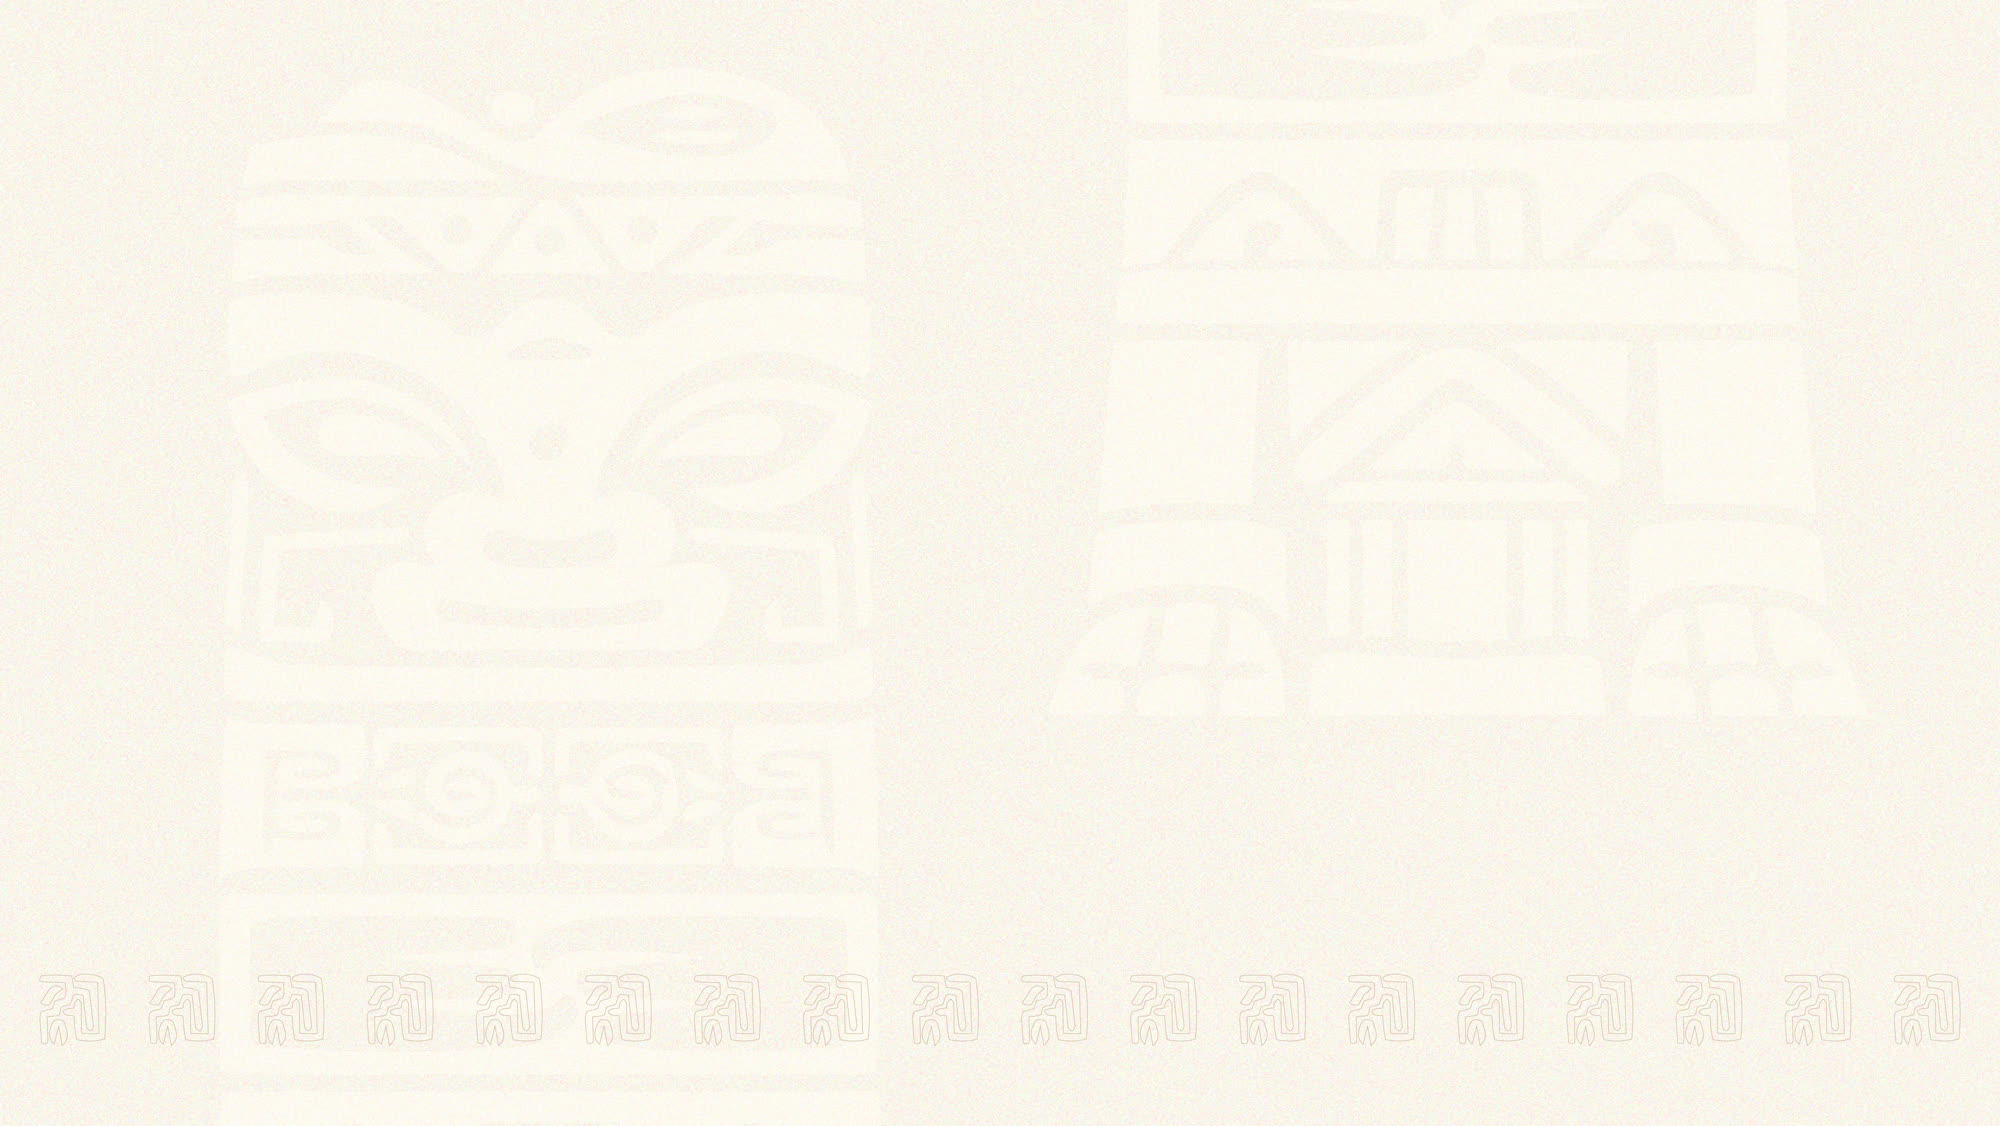
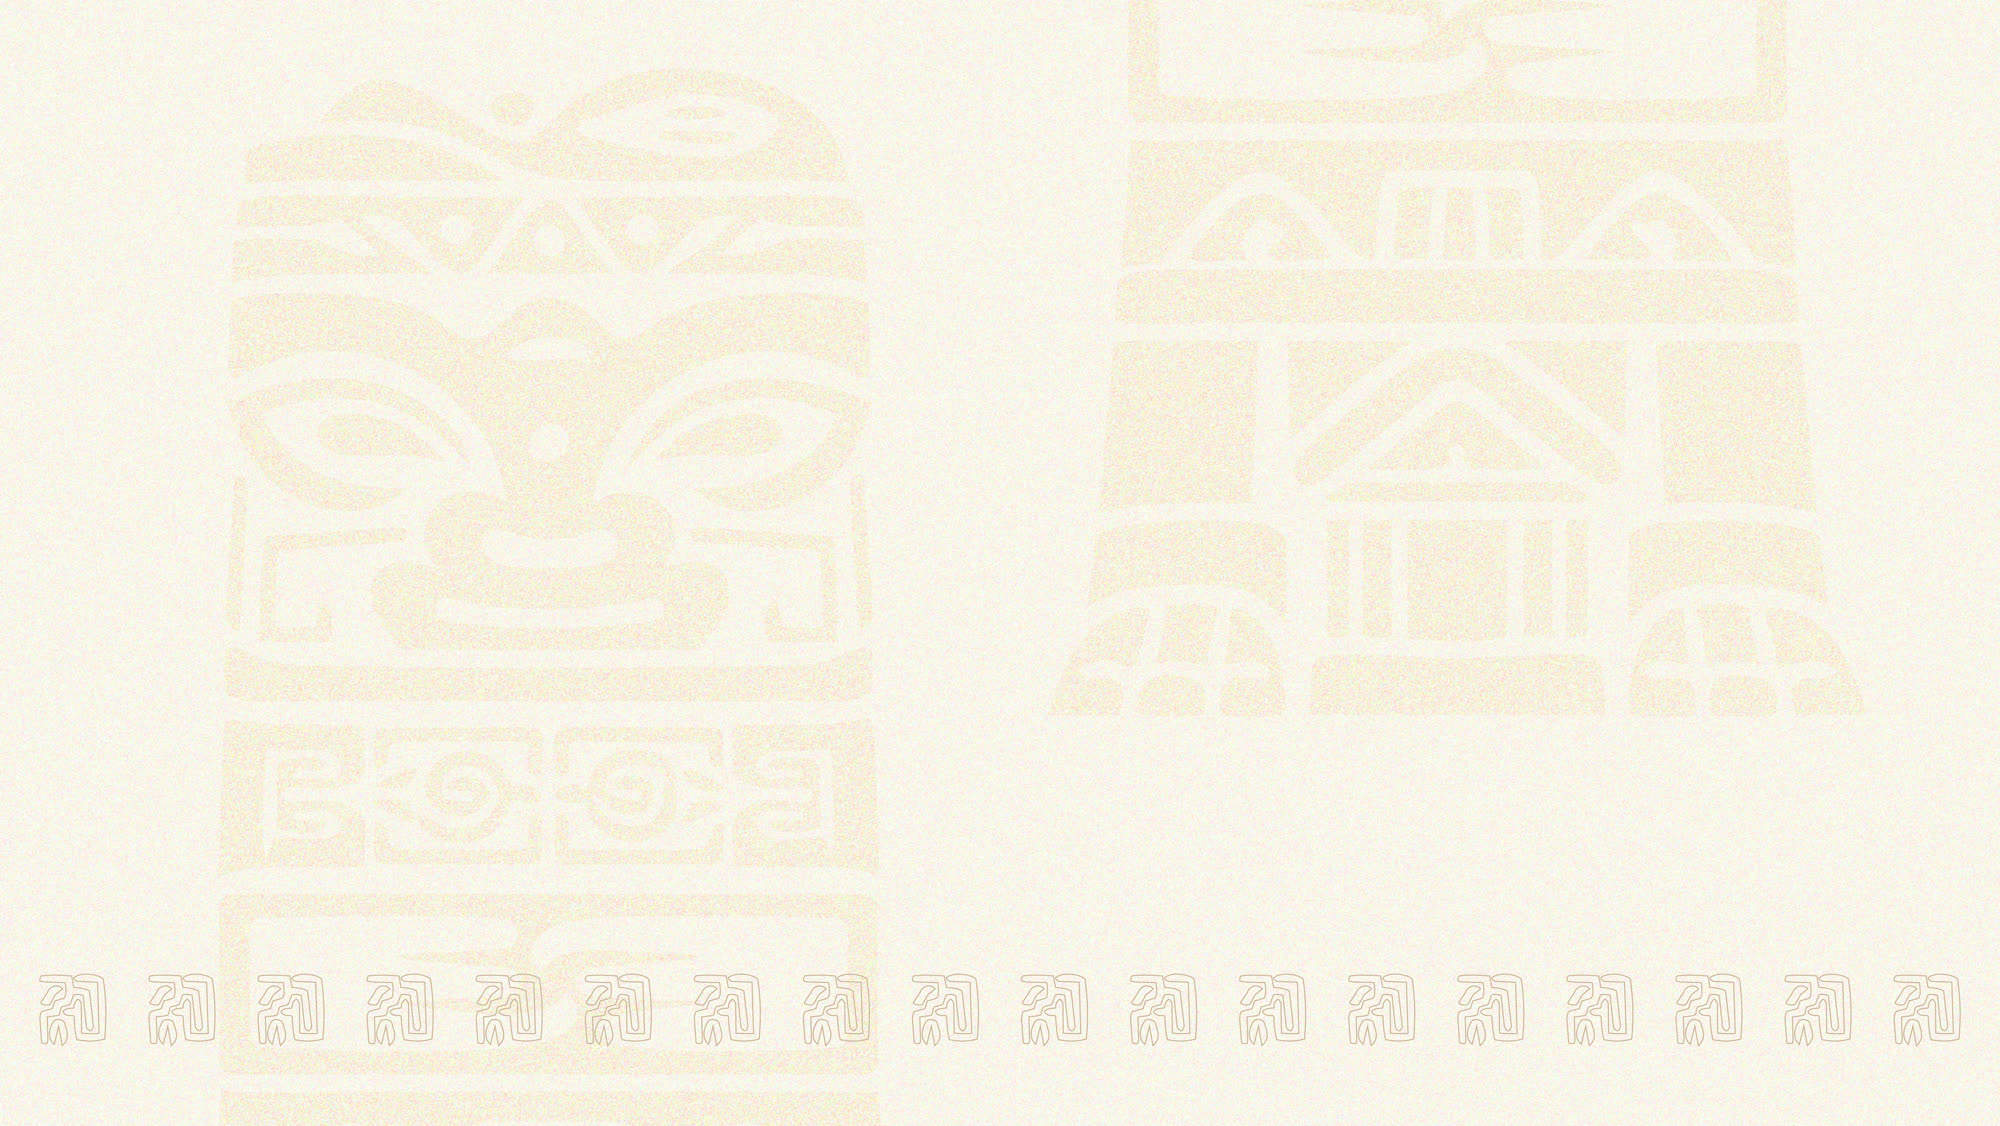
Redesign #services (Strategic Partner) + títulos escalonados + hook auto-versión
- #services: quitado el vídeo. Bloque 'Strategic Partner' con fondo selva (bg-strategic.jpg),
  título THE / STRATEGIC PARTNER (Medium itálica) / FOR TERRITORIAL ASSETS con línea izq,
  3 pills (Territorial Opportunities/Long-term Vision/Financial Discipline) y cifras
  500K+ SQM Land · 30+ Projects · 6+ Years (ref del cliente). All-in-one debajo como banda
  estilo 'The Expedition' (bg-theexpedition), mismo scroll.
- Active Developments: statement con el formato TitleExample (THE / PLACES YOU CHOOSE itálica
  / need to reflect what you value).
- Ecosystem: 'Four ways,' en itálica.
- bg-ecosystem nuevo (png 14MB -> jpg 500K) + legacy.mp4 reoptimizado (37MB->5.1MB); ?v= en sus refs.
- Hook .githooks/pre-commit: auto-incrementa ?v= de lawang-card.{js,css}/portfolio-app.js al commitear.

diff --git a/index.html b/index.html
@@ -895,7 +895,7 @@ document.addEventListener('mousemove', e => { mx=e.clientX; my=e.clientY; cur.st
 .cs-btn-pill { border-radius:40px; }
 
 /* ════ 2 · THE ECOSYSTEM — Divisions (#lines) ════ */
-.lw-divisions { background:linear-gradient(rgba(243,238,228,.25),rgba(243,238,228,.25)), url('assets/img/bg-ecosystem.jpg') center/cover no-repeat; }
+.lw-divisions { background:linear-gradient(rgba(243,238,228,.25),rgba(243,238,228,.25)), url('assets/img/bg-ecosystem.jpg?v=2') center/cover no-repeat; }
 .lw-divisions > .cs-wrap { max-width:1480px; }
 .lw-show-grid { display:grid; grid-template-columns:repeat(4,1fr); gap:clamp(1.9rem,2.8vw,3rem); margin-top:clamp(26px,4vh,48px); }
 .lw-show { position:relative; display:block; overflow:hidden; border-radius:16px; isolation:isolate; text-decoration:none;
@@ -919,7 +919,7 @@ document.addEventListener('mousemove', e => { mx=e.clientX; my=e.clientY; cur.st
   background:linear-gradient(180deg,rgba(20,30,16,.5),rgba(16,24,14,.4) 45%,rgba(14,22,12,.64)); }
 .lw-pf-top > * { position:relative; z-index:1; }
 .lw-pf-top .lw-kicker { color:#E6EDDD; }
-.lw-pf-statement { font-family:var(--csa); font-weight:300; font-size:clamp(26px,3.4vw,46px); line-height:1.14; letter-spacing:-.01em; color:var(--cb); margin:16px 0 0 auto; max-width:24ch; text-align:right; }
+.lw-pf-statement { font-size:clamp(26px,3.4vw,46px); color:var(--cb); margin:16px 0 0 auto; text-align:right; align-items:flex-end; }
 .lw-pf-title2 { font-family:var(--csa); text-transform:uppercase; font-weight:400; font-size:clamp(22px,3vw,42px); line-height:1.05; letter-spacing:.005em; color:var(--ci); margin:clamp(30px,4.5vh,56px) 0 0; }
 @media(min-width:760px){ .lw-pf-title2 { white-space:nowrap; } }
 .lw-pf-title2 b { font-weight:400; }
@@ -943,13 +943,35 @@ document.addEventListener('mousemove', e => { mx=e.clientX; my=e.clientY; cur.st
 /* Card de propiedad: estilos en assets/lawang-card.css (FUENTE ÚNICA, compartida con portfolio.html) */
 
 /* ════ 4 · ALL IN ONE — Services (#services) ════ */
-.lw-services { position:relative; background:var(--ca); overflow:hidden; }
-.lw-svc-video { position:absolute; inset:0; width:100%; height:100%; object-fit:cover; opacity:1; z-index:0; pointer-events:none; }
-.lw-services::before { content:""; position:absolute; inset:0; z-index:1; pointer-events:none;
-  background:linear-gradient(180deg,rgba(18,24,16,.64),rgba(18,24,16,.5) 45%,rgba(18,24,16,.68)); }
-.lw-services > .cs-wrap { position:relative; z-index:2; }
+#content-sections > section.lw-services { display:block; padding:0; min-height:auto; background:var(--cb); justify-content:flex-start; }
+.lw-services { position:relative; overflow:hidden; }
 .lw-services .lw-kicker { color:#E6EDDD; }
 .lw-services .lw-title { color:var(--cb); }
+
+/* Título escalonado THE / MAIN (Medium Itálica) / SUB — ref TitleExample.png */
+.lw-bt { display:flex; flex-direction:column; gap:.05em; margin:0; }
+.lw-bt .bt-1 { font-family:var(--csa); font-weight:400; text-transform:uppercase; letter-spacing:.16em; font-size:.38em; line-height:1; }
+.lw-bt .bt-2 { font-family:var(--csa); font-weight:500; font-style:italic; text-transform:uppercase; letter-spacing:.005em; line-height:1; }
+.lw-bt .bt-3 { font-family:var(--csa); font-weight:400; text-transform:uppercase; letter-spacing:.07em; font-size:.44em; line-height:1.1; margin-top:.12em; }
+
+/* Bloque Strategic Partner (fondo selva bg-strategic.jpg) */
+.lw-strat { position:relative; overflow:hidden; padding:clamp(3.5rem,8vh,6.5rem) 0 clamp(3rem,6vh,5rem); }
+.lw-strat-bg { position:absolute; inset:0; background:url('assets/img/bg-strategic.jpg') center/cover; }
+.lw-strat-bg::after { content:""; position:absolute; inset:0; background:linear-gradient(108deg,rgba(8,12,7,.88) 0%,rgba(8,12,7,.58) 46%,rgba(8,12,7,.30) 100%); }
+.lw-strat-inner { position:relative; z-index:1; color:var(--cb); }
+.lw-strat-title { color:var(--cb); font-size:clamp(2.1rem,4.4vw,4rem); padding-left:clamp(18px,2vw,28px); border-left:1px solid rgba(245,240,230,.55); }
+.lw-strat-pills { display:flex; flex-wrap:wrap; gap:clamp(.55rem,1.1vw,.9rem); margin-top:clamp(26px,4vh,42px); }
+.lw-pill-g { font-family:var(--csa); font-weight:600; font-size:clamp(.6rem,1vw,.72rem); letter-spacing:.13em; text-transform:uppercase;
+  color:#1d2414; padding:9px 20px; border-radius:999px; background:linear-gradient(120deg,#DAD1A8,#BEB48A); box-shadow:0 6px 18px -8px rgba(0,0,0,.6); }
+.lw-strat-stats { display:flex; gap:clamp(1.6rem,3vw,3rem); margin-top:clamp(32px,6vh,60px); justify-content:flex-end; flex-wrap:wrap; }
+.lw-sstat { display:flex; flex-direction:column; }
+.lw-sstat-n { font-family:var(--csa); font-weight:300; font-size:clamp(2.3rem,4vw,3.6rem); line-height:1; color:var(--cb); }
+.lw-sstat-n sup { font-size:.42em; font-weight:400; color:var(--cal); top:-.7em; }
+.lw-sstat-l { font-family:var(--csa); font-size:.64rem; letter-spacing:.18em; text-transform:uppercase; color:rgba(245,240,230,.78); margin-top:6px; }
+
+/* All-in-one como banda estilo Expedition (reusa .lw-exp-tl / .lw-tl-*) */
+.lw-aio-grid { grid-template-columns:repeat(4,1fr); }
+@media(max-width:780px){ .lw-aio-grid { grid-template-columns:1fr; } }
 /* Servicios → pipeline integrado (cadena extremo a extremo) */
 .lw-svc-lead { font-family:var(--csa); font-weight:300; font-size:clamp(1rem,1.3vw,1.18rem); line-height:1.6;
   color:rgba(245,240,230,.82); max-width:46ch; margin:.9rem 0 0; }
@@ -1093,7 +1115,7 @@ document.addEventListener('mousemove', e => { mx=e.clientX; my=e.clientY; cur.st
   <div class="cs-wrap">
     <div class="lw-head center reveal">
       <span class="lw-kicker">The Ecosystem</span>
-      <h2 class="lw-title" style="font-family:var(--csa);text-transform:uppercase">Four ways, <span style="font-weight:200">one legacy</span></h2>
+      <h2 class="lw-title" style="font-family:var(--csa);text-transform:uppercase"><em style="font-style:italic">Four ways,</em> <span style="font-weight:200">one legacy</span></h2>
     </div>
     <div class="lw-show-grid">
       <a class="lw-show reveal" href="portfolio.html#signature" style="--img:url('assets/img/CardSignatures.jpg')">
@@ -1124,11 +1146,11 @@ document.addEventListener('mousemove', e => { mx=e.clientX; my=e.clientY; cur.st
 <section class="lw-portfolio" id="portfolio">
   <div class="cs-wrap">
     <div class="lw-pf-top reveal">
-      <video class="lw-pf-video" autoplay muted loop playsinline preload="metadata" poster="assets/video/legacy-poster.jpg">
-        <source src="assets/video/legacy.mp4" type="video/mp4">
+      <video class="lw-pf-video" autoplay muted loop playsinline preload="metadata" poster="assets/video/legacy-poster.jpg?v=2">
+        <source src="assets/video/legacy.mp4?v=2" type="video/mp4">
       </video>
       <span class="lw-kicker">Prime Investments</span>
-      <h2 class="lw-pf-statement"><b>The places you choose</b><br>need to reflect what you value</h2>
+      <h2 class="lw-pf-statement lw-bt"><span class="bt-1">The</span><span class="bt-2">Places you choose</span><span class="bt-3">need to reflect what you value</span></h2>
     </div>
     <p class="lw-pf-title2 reveal" style="transition-delay:80ms"><b>Active Developments</b></p>
     <div class="lw-pf-carousel reveal" style="transition-delay:140ms">
@@ -1278,57 +1300,36 @@ document.addEventListener('mousemove', e => { mx=e.clientX; my=e.clientY; cur.st
 
 <!-- ════ 4 · WHAT WE DO ════ -->
 <section class="lw-services" id="services">
-  <video class="lw-svc-video" autoplay muted loop playsinline preload="metadata" poster="assets/video/services-teaser-poster.jpg">
-    <source src="assets/video/services-teaser.mp4" type="video/mp4">
-  </video>
-  <div class="cs-wrap">
-    <div class="lw-svc-intro reveal">
-      <div class="lw-svc-id">
-        <span class="lw-kicker">Who We Are</span>
-        <h2 class="lw-svc-h">A strategic partner for <em>territorial assets</em></h2>
-        <p class="lw-svc-lead">Lawang structures territorial opportunities with intelligence, long-term vision and financial discipline — across Bali and Sumba.</p>
+  <div class="lw-strat">
+    <div class="lw-strat-bg" aria-hidden="true"></div>
+    <div class="cs-wrap lw-strat-inner">
+      <h2 class="lw-bt lw-strat-title reveal">
+        <span class="bt-1">The</span>
+        <span class="bt-2">Strategic Partner</span>
+        <span class="bt-3">for territorial assets</span>
+      </h2>
+      <div class="lw-strat-pills reveal" style="transition-delay:80ms">
+        <span class="lw-pill-g">Territorial Opportunities</span>
+        <span class="lw-pill-g">Long-term Vision</span>
+        <span class="lw-pill-g">Financial Discipline</span>
       </div>
-      <div class="lw-svc-stats">
-        <div class="lw-stat"><span class="lw-stat-n">6<sup>+</sup></span><span class="lw-stat-l">Years</span></div>
-        <div class="lw-stat"><span class="lw-stat-n">30<sup>+</sup></span><span class="lw-stat-l">Land Plots</span></div>
-        <div class="lw-stat"><span class="lw-stat-n">350<sup>+</sup></span><span class="lw-stat-l">Projects</span></div>
+      <div class="lw-strat-stats reveal" style="transition-delay:140ms">
+        <div class="lw-sstat"><span class="lw-sstat-n">500K<sup>+</sup></span><span class="lw-sstat-l">SQM Land</span></div>
+        <div class="lw-sstat"><span class="lw-sstat-n">30<sup>+</sup></span><span class="lw-sstat-l">Projects</span></div>
+        <div class="lw-sstat"><span class="lw-sstat-n">6<sup>+</sup></span><span class="lw-sstat-l">Years</span></div>
       </div>
     </div>
-    <div class="lw-pipe">
-      <div class="lw-pipe-eyebrow reveal">All in one — from land to legacy</div>
-      <div class="lw-pipe-track">
-        <div class="lw-step reveal" style="transition-delay:60ms">
-          <span class="lw-step-node"></span>
-          <div class="lw-step-body">
-            <span class="lw-step-num">01</span>
-            <h3>Territorial sourcing</h3>
-            <p>We secure land inside verified expansion corridors, vetted for title, access and long-term upside.</p>
-          </div>
-        </div>
-        <div class="lw-step reveal" style="transition-delay:120ms">
-          <span class="lw-step-node"></span>
-          <div class="lw-step-body">
-            <span class="lw-step-num">02</span>
-            <h3>Legal and structure</h3>
-            <p>Every acquisition verified and structured — leasehold or PT PMA freehold, with full fiscal clarity.</p>
-          </div>
-        </div>
-        <div class="lw-step reveal" style="transition-delay:180ms">
-          <span class="lw-step-node"></span>
-          <div class="lw-step-body">
-            <span class="lw-step-num">03</span>
-            <h3>Development and build</h3>
-            <p>Tepi Sungai, our construction division, delivers each villa with structural integrity and territorial context.</p>
-          </div>
-        </div>
-        <div class="lw-step reveal" style="transition-delay:240ms">
-          <span class="lw-step-node"></span>
-          <div class="lw-step-body">
-            <span class="lw-step-num">04</span>
-            <h3>Rental and returns</h3>
-            <p>Once delivered, we manage occupancy and yield so the asset keeps performing year after year.</p>
-          </div>
-        </div>
+  </div>
+  <div class="lw-exp-tl">
+    <div class="lw-exp-tlbg" aria-hidden="true"></div>
+    <div class="cs-wrap lw-tl-inner">
+      <span class="lw-kicker reveal">All in one</span>
+      <h2 class="lw-tl-h reveal">From land to legacy</h2>
+      <div class="lw-tl-grid lw-aio-grid">
+        <div class="lw-tl-item reveal" style="transition-delay:60ms"><span class="lw-tl-y">01</span><h4>Territorial sourcing</h4><p>We secure land inside verified expansion corridors, vetted for title, access and long-term upside.</p></div>
+        <div class="lw-tl-item reveal" style="transition-delay:120ms"><span class="lw-tl-y">02</span><h4>Legal and structure</h4><p>Every acquisition verified and structured — leasehold or PT PMA freehold, with full fiscal clarity.</p></div>
+        <div class="lw-tl-item reveal" style="transition-delay:180ms"><span class="lw-tl-y">03</span><h4>Development and build</h4><p>Tepi Sungai, our construction division, delivers each villa with structural integrity and territorial context.</p></div>
+        <div class="lw-tl-item reveal" style="transition-delay:240ms"><span class="lw-tl-y">04</span><h4>Rental and returns</h4><p>Once delivered, we manage occupancy and yield so the asset keeps performing year after year.</p></div>
       </div>
     </div>
   </div>